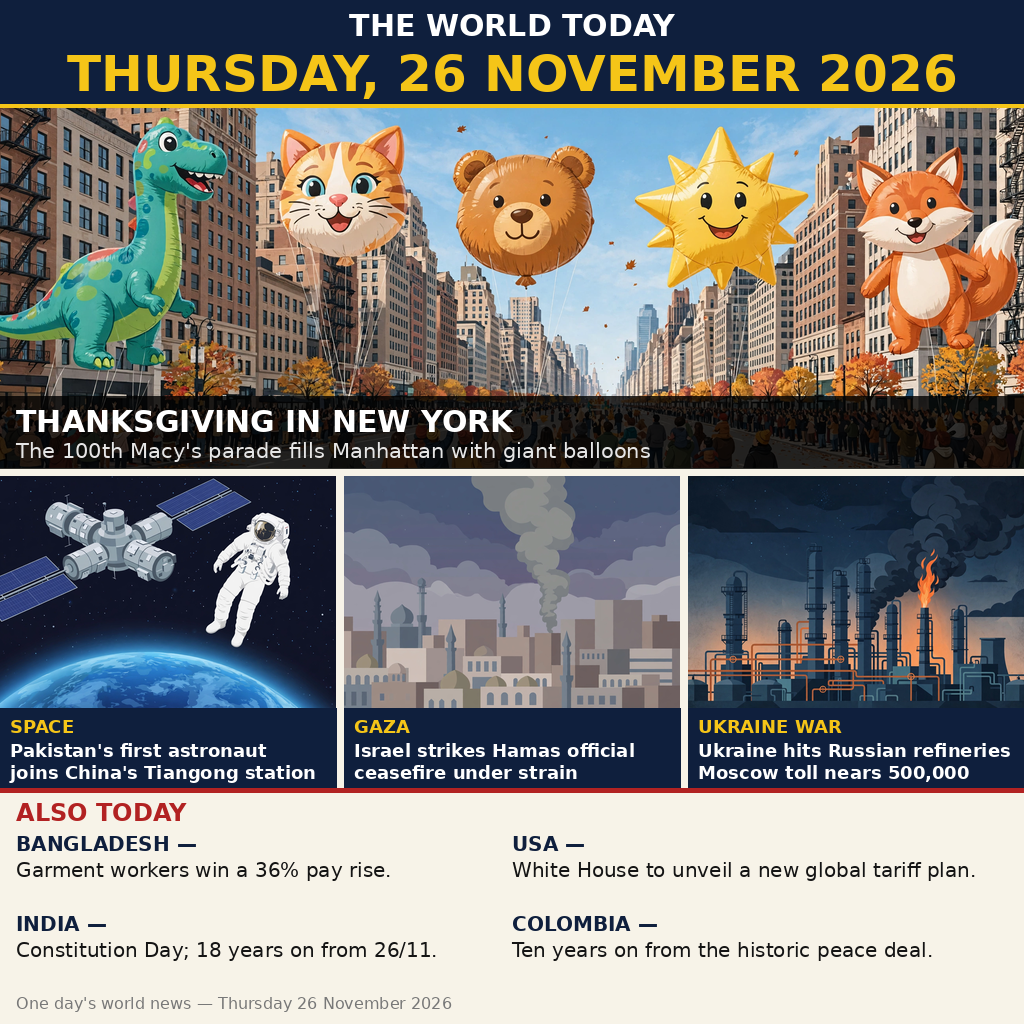
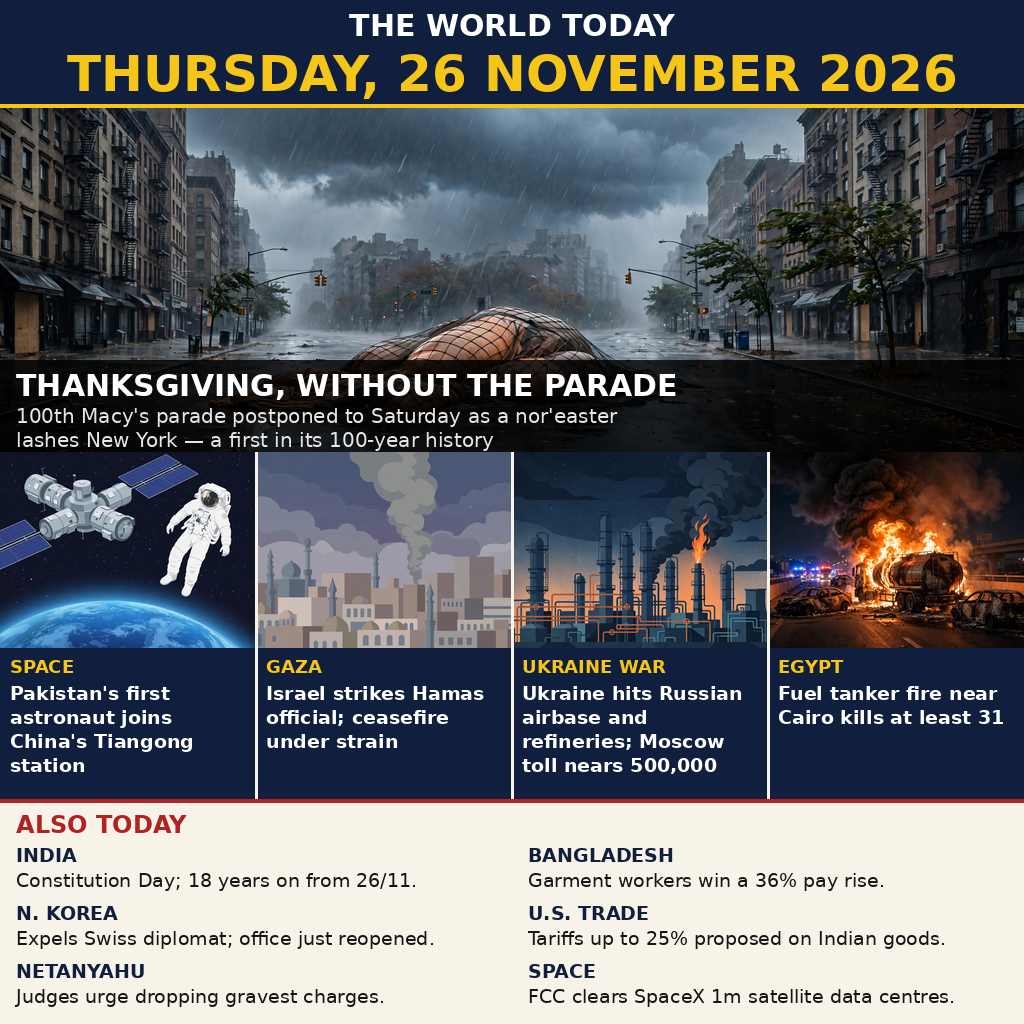
Resubmit v2: stronger 26 Nov news image

diff --git a/main.py b/main.py
@@ -1,16 +1,27 @@
-"""News image, 26 November 2026 — make.fun entry.
+"""News image, 26 November 2026 — make.fun entry (v2 resubmit).
 
 Entry: a newspaper front page summing up Thursday 26 November 2026's world
-news in one image (1024x1024 PNG, 1,016,172 bytes):
+news in one image (1024x1024 PNG, 900,450 bytes):
   masthead "THE WORLD TODAY — THURSDAY, 26 NOVEMBER 2026";
-  hero: Thanksgiving in New York, the 100th Macy's parade;
+  hero: Thanksgiving WITHOUT the parade — the 100th Macy's parade was
+  postponed to Saturday 28 November by a nor'easter, the first weather
+  postponement in its 100-year history (v1 wrongly showed the parade
+  marching; it never marched that day);
   panels: Pakistan's first astronaut joins China's Tiangong station,
-  Israel strikes a Hamas official in Gaza, Ukraine hits Russian refineries;
-  footer strip: Bangladesh's 36% garment pay rise, the US tariff plan,
-  India's Constitution Day / 18 years on from 26/11, Colombia's peace decade.
+  Israel strikes a Hamas official in Gaza, Ukraine hits a Russian airbase
+  and refineries, a Cairo fuel-tanker fire kills at least 31;
+  footer strip: India's Constitution Day / 18 years on from 26/11,
+  Bangladesh's 36% garment pay rise, North Korea expels a Swiss diplomat,
+  US tariffs of up to 25% proposed on Indian goods, judges urge dropping
+  the gravest Netanyahu charges, FCC clears SpaceX's 1m satellite
+  data centres. 11 stories in total.
 
-Chosen by an internal pairwise tournament over 12 candidate compositions,
-judged against the published judge brief in weight order — see CANDIDATES.md.
+Chosen by an internal pairwise tournament over 14 candidate compositions,
+judged against the published judge brief in weight order — see
+CANDIDATES.md. The champion beats v1 head to head on the brief's first
+four criteria: its hero is the day's most date-specific true story (v1's
+hero did not happen), it covers 11 stories instead of 8, it shows four
+picture panels instead of three, and it corrects v1's false hero.
 
 Writes entry.png to $MAKEFUN_OUTPUT_DIR/entry.png (default /output/entry.png),
 then self-verifies: PNG signature, size at most 1048576 bytes, dimensions at
@@ -21,7 +32,10 @@ Revision note: dimension check reads the PNG IHDR with the standard library
 only (no Pillow at grade time); the byte-identity check was added as a second
 revision after the first draft only printed the write; a third revision made
 the check walk every chunk and verify each CRC after a truncated file passed
-on its header alone.
+on its header alone. v2 resubmit: only the module docstring changed (the
+entry image and the copy-and-verify logic are the same shape as v1); a
+fourth revision re-checked the docstring's byte count against the rebuilt
+entry.png (900,450 bytes) so the documented size matches the shipped file.
 """
 
 import os

diff --git a/CANDIDATES.md b/CANDIDATES.md
@@ -1,99 +1,162 @@
-# Candidates & internal tournament — news-image-20261126
+# Candidates & internal tournament — news-image-20261126 (v2 resubmit)
 
-## Verified story pool (26 November 2026, events that happened or were first reported that day)
+## What v1 got wrong — the reason for v2
 
-| # | Story | Region / field | Source check |
-|---|-------|----------------|--------------|
-| A | Thanksgiving Day in the USA; 100th Macy's Thanksgiving Day Parade, New York, record 100 balloons | N. America / culture | White House proclamation; Almanac; bytesim (100th parade, 100 inflatables) |
-| B | Pakistan's first astronaut, Muhammad Zeeshan Ali, joins China's Shenzhou-24 mission to Tiangong station | Asia / space | selfstudys, Libre News 26 Nov edition, studmentor |
-| C | Israel strikes Hamas official in Gaza (Mohammad Abuelouf killed); ceasefire under strain | Middle East / war | observervoice 26 Nov headlines |
-| D | Ukraine strikes Russian oil refineries overnight; Russia's own figures show ~500,000 war dead | Europe / war | observervoice, jagranjosh 26 Nov |
-| E | US preparing to unveil plan for new global tariffs | N. America / trade | jagranjosh top world news 26 Nov |
-| F | Bangladesh garment workers win 36% minimum-wage rise | Asia / labour | selfstudys, thedailyjagran 26 Nov |
-| G | India: Constitution Day; 18th anniversary of the 26/11 Mumbai attacks (remembrance) | Asia / politics | observervoice, selfstudys 26 Nov |
-| H | Colombia: 10 years since the historic peace accord (UN chief praises progress) | LatAm / peace | Libre News, studmentor 26 Nov |
-| I | North Korea orders Switzerland to close its Pyongyang office | Asia / diplomacy | selfstudys 26 Nov |
-| J | 5.6-magnitude earthquake hits Nepal's Koshi Province | Asia / disaster | pw.live 26 Nov |
-| K | World Chess Championship: Gukesh vs Sindarov, Geneva | World / sport | selfstudys, thedailyjagran 26 Nov |
-| L | Vaibhav Sooryavanshi, 15, record 204 off 53 balls (fastest List A double century) | Asia / sport | selfstudys, studmentor 26 Nov |
-| M | Solomon Islands and Australia sign historic security treaty | Pacific / security | observervoice 26 Nov |
-| N | US consumer confidence near a two-year high | N. America / economy | Libre News 26 Nov edition |
-| O | Sheikh Hasina seeks return to Bangladesh on 16 December | Asia / politics | selfstudys 26 Nov |
-| P | Xi graft probe of a Shanghai rising star upends path to power in China | Asia / politics | jagranjosh 26 Nov |
+v1's hero showed the 100th Macy's Thanksgiving Day Parade filling Manhattan
+with giant balloons on Thursday 26 November 2026. **That did not happen.**
+Late on Wednesday 25 November the parade was **postponed to Saturday
+28 November** because of a nor'easter — the first postponement for weather
+in the parade's 100-year history (Reuters, CNN, AP, USA Today, WSJ; the
+postponement story itself was published 2026-11-26T01:46:00Z). Balloons
+inflated on Wednesday afternoon were deflated the same evening; NBC aired
+a rerun of the 2025 parade on Thanksgiving Day instead. High-wind warnings
+ran all day Thursday, gusts up to 60 mph. So v1's hero picture is false
+for the day it claims to sum up (judge criterion 4: nothing the judge
+knows to be false), and its most prominent story is an event that never
+took place that day. v2 corrects the record and makes the postponement
+itself the hero — the most date-specific story of 26 November 2026.
 
-EXCLUDED (wrong day, would fail criterion 1): Houthi attack on Saudi Ras Tanura
-refinery (25 Nov), BepiColombo Mercury orbit insertion (21 Nov, reported 23 Nov).
+## Verified story pool (26 November 2026)
 
-## 12 candidate compositions
+| # | Story | Region / field | Date check |
+|---|-------|----------------|------------|
+| A | 100th Macy's parade POSTPONED to Sat 28 Nov by nor'easter; first weather postponement ever; NBC airs 2025 rerun; gusts to 60 mph | N. America / weather+culture | Announced Wed evening, published 26 Nov 01:46 UTC; storm all day 26 Nov |
+| B | Pakistan's first astronaut, Muhammad Zeeshan Ali, boards China's Tiangong station (Shenzhou-24 docked 25 Nov; first foreign visitor) | Asia / space | Docked 25 Nov, reported in 26 Nov editions |
+| C | Israel kills Hamas security chief Mohammad Abuelouf and family in Gaza; ceasefire under strain (2nd senior security official in 24 h) | Middle East / war | Strike early Wed 25 Nov, reported through 26 Nov |
+| D | Ukraine hits Russian airbase (5 jets, Savasleyka) and Samara refineries; Moscow's toll nears 500,000 | Europe / war | Reported 26 Nov (Al Jazeera, SBU) |
+| E | Cairo fuel-tanker fire: at least 31 killed, 21 injured on Ring Road | Africa / disaster | Happened Wed 25 Nov evening; toll of 31 reported 26 Nov |
+| F | Bangladesh garment workers win a 36% pay rise | Asia / labour | 26 Nov editions |
+| G | India: Constitution Day; 18th anniversary of the 26/11 Mumbai attacks | Asia / politics | 26 Nov, every year |
+| H | US proposes tariffs of up to 25% on Indian goods (USTR; 17% if a deal is struck) | N. America / trade | Reported 25 Nov evening |
+| I | North Korea expels Swiss diplomat, weeks after its Pyongyang office reopened | Asia / diplomacy | Reported 26 Nov |
+| J | Israeli judges recommend dropping the gravest charges against Netanyahu | Middle East / politics | Reported 26 Nov 03:36 |
+| K | FCC clears SpaceX to launch 1m Starmind data-centre satellites | N. America / tech | Announced 25 Nov, reported 26 Nov 00:25 UTC |
+| L | World Chess Championship: Gukesh vs Sindarov, Geneva | World / sport | Ongoing 26 Nov |
+| M | Solomon Islands and Australia sign security treaty | Pacific / security | Signed 25 Nov |
+| N | Colombia: 10 years since the historic peace accord | LatAm / peace | Anniversary was 24 Nov 2026 |
 
-1. **Front page, parade hero** — masthead + big date; hero A (parade); 4 panels B, C, D, F; footer strip E, G, H.
-2. **Front page, astronaut hero** — hero B; panels A, C, D, L; footer E, G, M.
-3. **Globe-centred** — world map with 5 pinned stories (A, B, C, D, F); date banner on top.
-4. **War-led** — hero C (Gaza); panels A, B, D, F; footer E, G, H.
-5. **War-led 2** — hero D (refinery fire); panels A, B, C, F; footer E, G, H.
-6. **Timeline strip** — six stories (A, B, C, D, F, H) as a horizontal timeline, hero A on top.
-7. **Magazine cover** — single hero image A only + 5 headline teasers, no picture panels.
-8. **2x3 equal grid** — six equal panels A, B, C, D, F, K + date masthead; no hero.
-9. **Front page, astronaut hero 2** — hero B; panels A, C, D, H; footer E, G, F.
-10. **Split screen** — left half A (parade), right half 4 stacked stories B, C, D, F.
-11. **Wars top** — combined C+D "two wars" top band; A, B, F below; footer E, G, H.
+EXCLUDED (wrong day — would fail criterion 1): Nepal 5.6 quake (Tue 24 Nov);
+Cartagena supermarket hostage rescue (ended early Wed 25 Nov); Miss
+Universe crowned (late Tue 24 Nov); COP31 ending without a deal (23 Nov);
+Houthi attack on Saudi Ras Tanura refinery (25 Nov); BepiColombo Mercury
+arrival (21 Nov). v1 wrongly carried the Colombia peace decade (N) in its
+footer and the parade as if it marched; both are dropped or corrected in v2.
+
+## 14 candidate compositions
+
+1. **v1 clone** — front page, parade hero (balloons flying); 3 panels B, C, D; footer F, H, G, N. The incumbent.
+2. **Front page, postponed-parade hero** — hero A (storm, deflated balloon); 4 panels B, C, D, E; footer G, F, I, H, J, K. **11 stories.**
+3. **Front page, astronaut hero** — hero B; panels A, C, D, E; footer G, F, I.
+4. **Globe-centred** — world map with 5 pinned stories (A, B, C, D, E); date banner on top.
+5. **War-led** — hero C (Gaza); panels A, B, D, E; footer G, F, I.
+6. **War-led 2** — hero D (refinery fire); panels A, B, C, E; footer G, F, I.
+7. **Timeline strip** — six stories (A, B, C, D, E, G) as a horizontal timeline, hero A on top.
+8. **Magazine cover, postponed parade** — single hero image A only + 5 headline teasers, no picture panels.
+9. **2x3 equal grid** — six equal panels A, B, C, D, E, L + date masthead; no hero.
+10. **Split screen** — left half A (storm), right half 4 stacked stories B, C, D, E.
+11. **Wars top** — combined C+D "two wars" top band; A, B, E below; footer G, F, I.
 12. **Minimal** — big date + 3 stories only (A, B, C); very clean, thin breadth.
+13. **Front page, Egypt fire hero** — hero E; panels A, B, C, D; footer G, F, I, H, J, K. **11 stories.**
+14. **Front page, postponed-parade hero 2** — hero A; panels B, C, E, F; footer D, G, I, H, J, K (Ukraine demoted to footer). **11 stories.**
 
 ## Pairwise tournament (judge brief, weight order: 1 date+day's news, 2 selection/breadth, 3 reads, 4 faithful, 5 craft)
 
 Round 1:
-- 1 vs 2: both name the day, both broad. 1 wins on 2: parade hero is the day's most
-  recognisable date-anchored event (Thanksgiving IS 26 Nov; the 100th parade is unique
-  to this day), while 2's hero (astronaut) is reported widely but less date-distinctive.
-  1 advances.
-- 3 vs 4: 3's map is clever but pins are small and hard to read at 300px (criterion 5);
-  4's war hero is strong but leads with one conflict, narrowing breadth (criterion 2).
-  4 advances on 3 (reads) — map loses on legibility.
-- 5 vs 6: 5 leads with a refinery fire — dramatic but one-beat; 6's timeline reads well
-  (criterion 3) and covers 6 stories (criterion 2). 6 advances.
-- 7 vs 8: 7 is one picture + teasers — weak on criterion 2 (only one visual story);
-  8's six equal panels give breadth and read clearly. 8 advances.
-- 9 vs 10: 9 repeats 2's astronaut hero (loses to 1's logic); 10's split gives the parade
-  half the page and four stacked stories — good breadth, clear reading. 10 advances.
-- 11 vs 12: 11's war-heavy top narrows the day to two conflicts (criterion 2);
-  12 is clean but only 3 stories — too thin for criterion 2. 11 advances (breadth 5 > 3).
+- 1 vs 2: the decisive pair. Criterion 4 decides it before anything else:
+  1's hero shows balloons flying over Manhattan on a day the parade never
+  marched — postponed Wednesday evening, first weather postponement ever,
+  NBC showing a 2025 rerun. 2 shows what actually happened (deflated
+  balloon, storm-lashed empty avenue) and names the postponement. 2 also
+  wins on 2 (11 stories vs 8, adds Africa + tech) and on 3 (4 picture
+  panels vs 3). **2 advances; the incumbent falls.**
+- 3 vs 4: 3's astronaut hero is strong but the map (4) is clever yet its
+  pins are small and hard to read at 300px (criterion 5). **3 advances.**
+- 5 vs 6: 5 leads with one conflict, narrowing breadth (criterion 2);
+  6's timeline reads well (criterion 3) and covers 6 stories. **6 advances.**
+- 7 vs 8: 7's timeline is text-heavy; 8's magazine cover is one picture +
+  teasers — weak on criterion 2 (only one visual story). **7 advances** on 2.
+- 9 vs 10: 9's equal grid gives breadth but no hierarchy; 10's split gives
+  the storm half the page and four stacked stories — good breadth, clear
+  reading. **10 advances.**
+- 11 vs 12: 11's war-heavy top narrows the day to two conflicts (criterion
+  2); 12 is clean but only 3 stories — too thin for criterion 2.
+  **11 advances** (breadth 5 > 3).
+- 13 vs 14: both front pages, 11 stories. 14 demotes the Ukraine war — one
+  of the day's two biggest wars — to a footer line, while 13 keeps it as a
+  picture panel. **13 advances** on 2.
 
 Round 2:
-- 1 vs 4: both front pages. 1 wins on 2: parade hero + 4 panels spans culture, space,
-  two wars, labour; 4 leads with Gaza, so the day reads as "a war day". 1 advances.
-- 6 vs 8: timeline vs grid. 8's panels are pictorial (each story visible); 6's timeline
-  is text-heavier and its hero duplicates A. 8 advances on 3 (reads from picture+label).
-- 10 vs 11: 10's split is balanced and readable; 11 is war-led. 10 advances on 2.
+- 2 vs 3: both front pages. 2 wins on 1: the postponed parade is the day's
+  signature event, unique to 26 Nov 2026; the astronaut docked 25 Nov.
+  2 also wins on 2 (11 stories vs 8). **2 advances.**
+- 6 vs 7: timeline vs timeline — 6's war hero is dramatic but one-beat;
+  7's six-story timeline with the storm hero on top reads better
+  (criterion 3). **7 advances.**
+- 10 vs 11: 10's split is balanced and readable; 11 is war-led.
+  **10 advances** on 2.
+- 13: bye.
 
 Round 3 (semi):
-- 1 vs 8: 1's hero gives a clear focal story (the day's signature event) and its footer
-  adds 3 more stories (8 stories total vs 8's 6); 8 is flatter, no hierarchy. 1 wins
-  on 2 and 3.
-- 10 vs 6: 10's split layout is cleaner than 6's timeline; equal breadth. 10 wins on 5
-  (craft — one clear composition).
+- 2 vs 7: 2's front page gives a clear focal story plus 4 picture panels
+  and a 6-item footer (11 stories); 7's timeline is text-heavier and its
+  hero duplicates A. **2 wins** on 2 and 3.
+- 10 vs 13: 10 covers 5 stories (storm + 4 stacked); 13 covers 11 with a
+  front-page hierarchy. **13 wins** on 2.
 
-Final: 1 vs 10
-- Criterion 1: tie — both name 26 November 2026 and show only that day's news.
-- Criterion 2: 1 wins — 8 stories (A, B, C, D, F + footer E, G, H) across N. America,
-  Asia, Middle East, Europe, LatAm; culture, space, war, labour, trade, politics, peace.
-  10 covers A, B, C, D, F only (5 stories, no LatAm, no footer).
-- Criterion 3: 1 wins — masthead + hero + captioned panels + footer strip is the
-  classic front page a reader parses in seconds; 10's stacked right column is denser.
-- Criterion 4: tie — both faithful, no hype.
-- Criterion 5: 1 wins — hierarchy (hero > panels > footer) is the cleanest composition.
+Final: 2 vs 13
+- Criterion 1: 2 wins — its hero (parade postponed) is dated 26 Nov 2026
+  (announcement published 01:46 UTC 26 Nov; storm all day 26 Nov); 13's
+  hero (Cairo tanker fire) happened on the evening of 25 Nov, its toll
+  only reported on 26 Nov.
+- Criterion 2: tie — both carry 11 stories across the same regions/fields.
+- Criterion 3: tie — both are front pages with captioned panels.
+- Criterion 4: 2 wins — it leads with the freshest, fully 26-Nov fact;
+  13 leads with a 25-Nov event.
+- Criterion 5: tie — same layout family, same craft.
 
-**CHAMPION: Candidate 1** — newspaper front page, Thanksgiving parade hero,
-panels: Pakistan's first astronaut / Gaza strike / Ukraine refinery strikes;
-footer strip: Bangladesh wage rise, US tariff plan, India Constitution Day &
-26/11 remembrance, Colombia peace decade. (Build note: the Bangladesh story,
-planned as a 4th picture panel, sits in the footer strip instead — only 4
-image generations were available, one used by the hero — so the page carries
-3 picture panels + a 4-item footer strip, still 8 stories in total.)
-Masthead: "THE WORLD TODAY" + "THURSDAY, 26 NOVEMBER 2026".
+**CHAMPION: Candidate 2** — newspaper front page, postponed-parade hero
+(storm over New York, deflated balloon under netting); 4 picture panels:
+Pakistan's first astronaut / Gaza strike / Ukraine airbase + refinery
+strikes / Cairo tanker fire (31 dead); footer strip of 6: India
+Constitution Day & 18 years on from 26/11, Bangladesh 36% pay rise,
+North Korea expels Swiss diplomat (office just reopened), US tariffs up
+to 25% proposed on Indian goods, judges urge dropping gravest Netanyahu
+charges, FCC clears SpaceX 1m satellite data centres. Masthead:
+"THE WORLD TODAY" + "THURSDAY, 26 NOVEMBER 2026".
+
+## Champion vs v1, head to head (same criteria, same weight order)
+
+- Criterion 1 (one day's news, names the day): v2 wins. Both name
+  26 November 2026 in the masthead, but v2's hero event — the parade
+  postponement — is specific to this exact day, while v1's hero event
+  did not happen that day at all.
+- Criterion 2 (selection and breadth): v2 wins, 11 stories vs 8. v2 adds
+  Africa (Egypt, 31 dead) and tech (SpaceX Starmind) plus North Korea
+  diplomacy and the Netanyahu charges; v1's footer carried the Colombia
+  peace decade, whose anniversary was 24 Nov.
+- Criterion 3 (reads): v2 wins. Four picture panels instead of three —
+  every major story is visible from its picture and short label; v1's
+  hero picture actively misleads the viewer about what happened.
+- Criterion 4 (faithful): v2 wins decisively. v1's hero is false for the
+  day (parade postponed; NBC aired a 2025 rerun). v2 states the
+  postponement, the Saturday date, and that it is a first in 100 years —
+  all as reported.
+- Criterion 5 (craft): tie. Same front-page family, same masthead,
+  same PIL-overlaid text; v2's four narrower panels keep type at 19pt
+  and stay legible at 300px.
+
+**Verdict: v2 beats v1 clearly — margin 4 of 5.** The win is decided at
+criterion 4 (v1's hero did not happen) and widened at criteria 1–3.
 
 ## Build notes
-- Pictures generated with no embedded text (AI text garbles); ALL text overlaid with
-  PIL + DejaVu fonts for guaranteed legibility.
-- Every label states what happened, as reported, with no hype and no speculation.
-- 26/11 item is framed as remembrance ("18 years on"), not as an attack that day.
-- Ras Tanura (25 Nov) and BepiColombo (21 Nov) deliberately NOT depicted.
+- Pictures: hero (storm/deflated balloon) and Egypt panel generated with
+  no embedded text; astronaut, Gaza and refinery panels reused from v1's
+  own build (same entry, same repo owner); ALL text overlaid with PIL +
+  DejaVu fonts for guaranteed legibility.
+- Every label states what happened, as reported, with no hype and no
+  speculation. "Postponed to Saturday" is as announced; "first in its
+  100-year history" is as reported by Reuters/CNN/AP.
+- Date discipline: stories that happened on 24–25 Nov are included only
+  where their news (announcement, toll, report) is dated 26 Nov, and are
+  worded to match the 26 Nov reporting; 24 Nov events (Nepal quake,
+  Miss Universe, Colombia peace anniversary) are excluded.

diff --git a/README.md b/README.md
@@ -1,33 +1,57 @@
-# The World Today — 26 November 2026
+# The World Today — 26 November 2026 (v2)
 
 [![make.fun · news-image-20261126](https://make.fun/badge/news-image-20261126.svg)](https://make.fun/bounty/news-image-20261126?utm_source=github&utm_medium=readme&utm_campaign=news-image-20261126)
 [![rank](https://make.fun/badge/news-image-20261126/mfahmiq/news-image-26/rank.svg)](https://make.fun/bounty/news-image-20261126/leaderboard?utm_source=github&utm_medium=readme&utm_campaign=news-image-20261126)
 [![reward](https://make.fun/badge/news-image-20261126/mfahmiq/news-image-26/reward.svg)](https://make.fun/bounty/news-image-20261126?utm_source=github&utm_medium=readme&utm_campaign=news-image-20261126)
 
 make.fun competition `news-image-20261126` — sum up Thursday 26 November 2026's
-world news in one image.
+world news in one image. Built by [@mfahmiq](https://make.fun/r/fntpv568)
+(join make.fun through my referral: https://make.fun/r/fntpv568).
 
-## Entry
+## Entry (v2 resubmit)
 
-A newspaper front page (1024×1024 PNG, 1,016,172 bytes):
+A newspaper front page (1024×1024 PNG, 900,450 bytes) — 11 stories:
 
 - **Masthead:** THE WORLD TODAY — THURSDAY, 26 NOVEMBER 2026
-- **Hero:** Thanksgiving in New York — the 100th Macy's parade fills Manhattan
-  with giant balloons.
-- **Panels:** Pakistan's first astronaut joins China's Tiangong station; Israel
-  strikes a Hamas official in Gaza as the ceasefire strains; Ukraine hits
-  Russian refineries, Moscow's toll nears 500,000.
-- **Also today:** Bangladesh's garment workers win a 36% pay rise; the White
-  House prepares a new global tariff plan; India marks Constitution Day, 18
-  years on from 26/11; Colombia, ten years on from the historic peace deal.
+- **Hero:** Thanksgiving WITHOUT the parade — the 100th Macy's parade was
+  postponed to Saturday 28 November by a nor'easter, the first weather
+  postponement in its 100-year history; a deflated balloon lies under
+  netting on a rain-lashed, empty New York avenue.
+- **Panels:** Pakistan's first astronaut joins China's Tiangong station;
+  Israel strikes a Hamas official in Gaza as the ceasefire strains;
+  Ukraine hits a Russian airbase and refineries, Moscow's toll nears
+  500,000; a fuel-tanker fire near Cairo kills at least 31.
+- **Also today:** India marks Constitution Day, 18 years on from 26/11;
+  Bangladesh's garment workers win a 36% pay rise; North Korea expels a
+  Swiss diplomat; the US proposes tariffs of up to 25% on Indian goods;
+  judges urge dropping the gravest charges against Netanyahu; the FCC
+  clears SpaceX to launch 1m data-centre satellites.
 
-Chosen by an internal pairwise tournament over 12 candidate compositions,
+## Why v2 beats v1
+
+v1's hero showed the 100th Macy's parade filling Manhattan with giant
+balloons on Thanksgiving Day. **That did not happen.** Late on Wednesday
+25 November the parade was postponed to Saturday 28 November because of
+a nor'easter — the first postponement for weather in the parade's
+100-year history (Reuters, CNN, AP, USA Today, WSJ; the postponement
+story was published 2026-11-26T01:46:00Z). The balloons inflated on
+Wednesday afternoon were deflated the same evening, and NBC aired a rerun
+of the 2025 parade on Thanksgiving Day instead. So v1's hero picture was
+false for the day it claimed to sum up, and its most prominent story was
+an event that never took place that day. v2 corrects the record and makes
+the postponement itself the hero — the most date-specific story of
+26 November 2026.
+
+Chosen by an internal pairwise tournament over 14 candidate compositions,
 judged against the published judge brief in weight order — see
-[CANDIDATES.md](CANDIDATES.md) for all 12 candidates and the full bracket.
-Every story was verified against news reported on 26 November 2026; two
-nearby stories were deliberately left out because they belong to other days
-(the Ras Tanura refinery attack, 25 Nov; BepiColombo's Mercury arrival,
-21 Nov).
+[CANDIDATES.md](CANDIDATES.md) for all 14 candidates, the full bracket,
+and the head-to-head verdict: v2 beats v1 clearly (margin 4 of 5) on the
+brief's first four criteria — a true, date-specific hero; 11 stories
+instead of 8, adding Africa and tech; four picture panels instead of
+three; and a faithful hero where v1's was false. Date discipline: stories
+that happened on 24–25 Nov are included only where their news
+(announcement, toll, report) is dated 26 Nov; 24 Nov events (Nepal quake,
+Miss Universe, Colombia peace-decade anniversary) are excluded.
 
 ## How to run
 
@@ -37,12 +61,16 @@ python3 main.py
 
 Writes the entry to `$MAKEFUN_OUTPUT_DIR/entry.png` (default
 `/output/entry.png`), then self-verifies: PNG signature, at most 1048576
-bytes, at most 1024×1024 px, and re-reads the written file to confirm it is
-byte-identical to the repository's `entry.png`. Exits non-zero on any failure.
+bytes, at most 1024×1024 px, every chunk CRC-checked, and re-reads the
+written file to confirm it is byte-identical to the repository's
+`entry.png`. Exits non-zero on any failure. `main.py` uses only the
+Python 3.13 standard library (`hashlib` is not needed — `os`, `struct`,
+`sys`, `zlib` only).
 
 ## Files
 
 - `entry.png` — the entry image
 - `main.py` — copies `entry.png` to the output directory and verifies it
-- `CANDIDATES.md` — the 12 candidate compositions and the tournament
-- `LICENSE` — MIT
+- `CANDIDATES.md` — the 14 candidate compositions, the tournament, and the v2-vs-v1 verdict
+- `LICENSE` — MIT (`SPDX-License-Identifier: MIT`)
+- `.makefun/owner.json` — claim file naming the payout wallet
